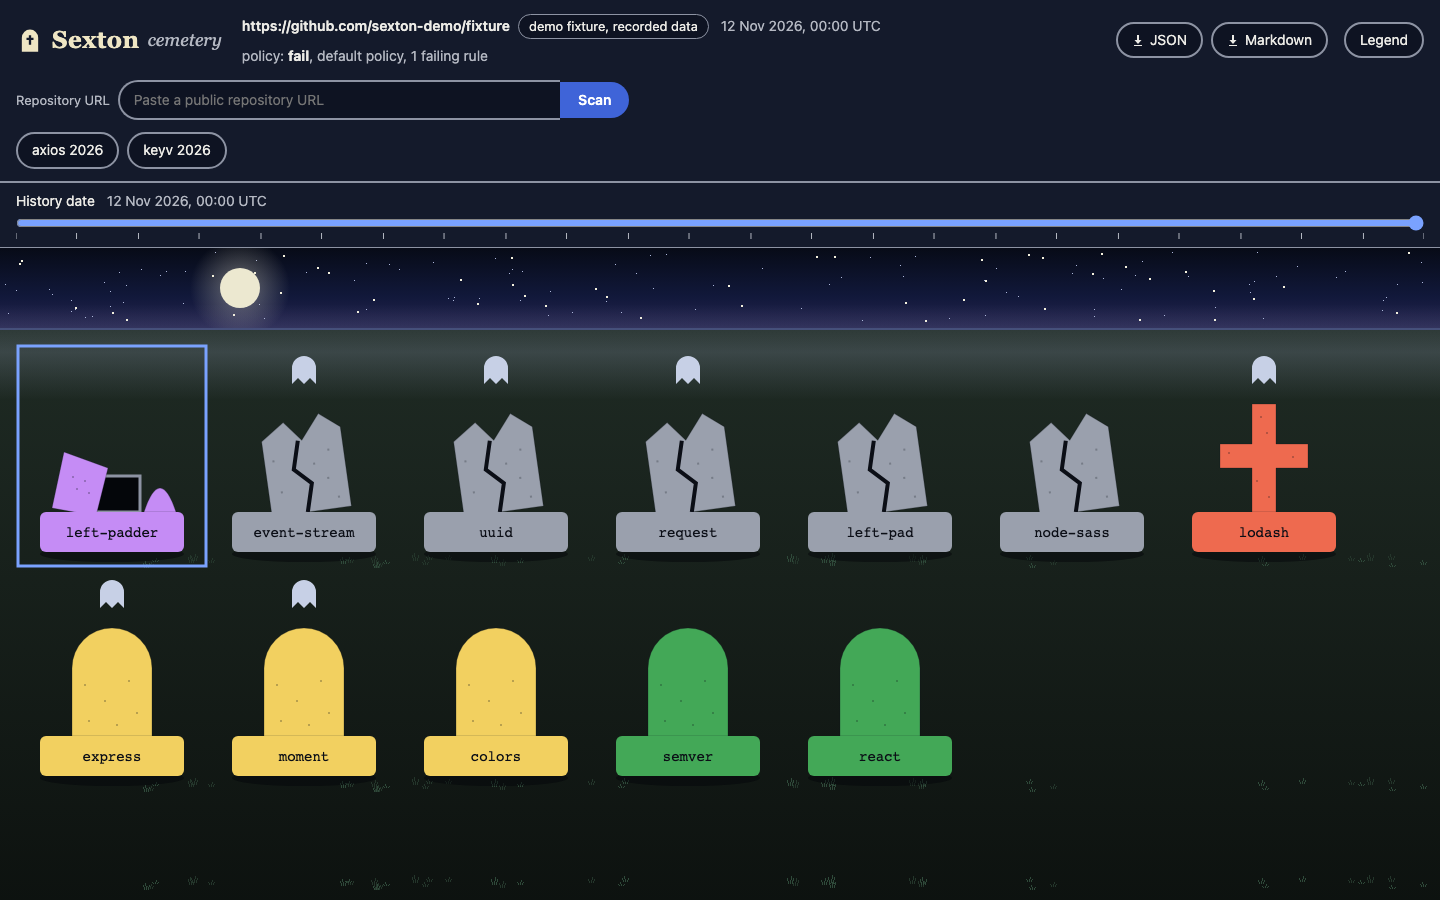
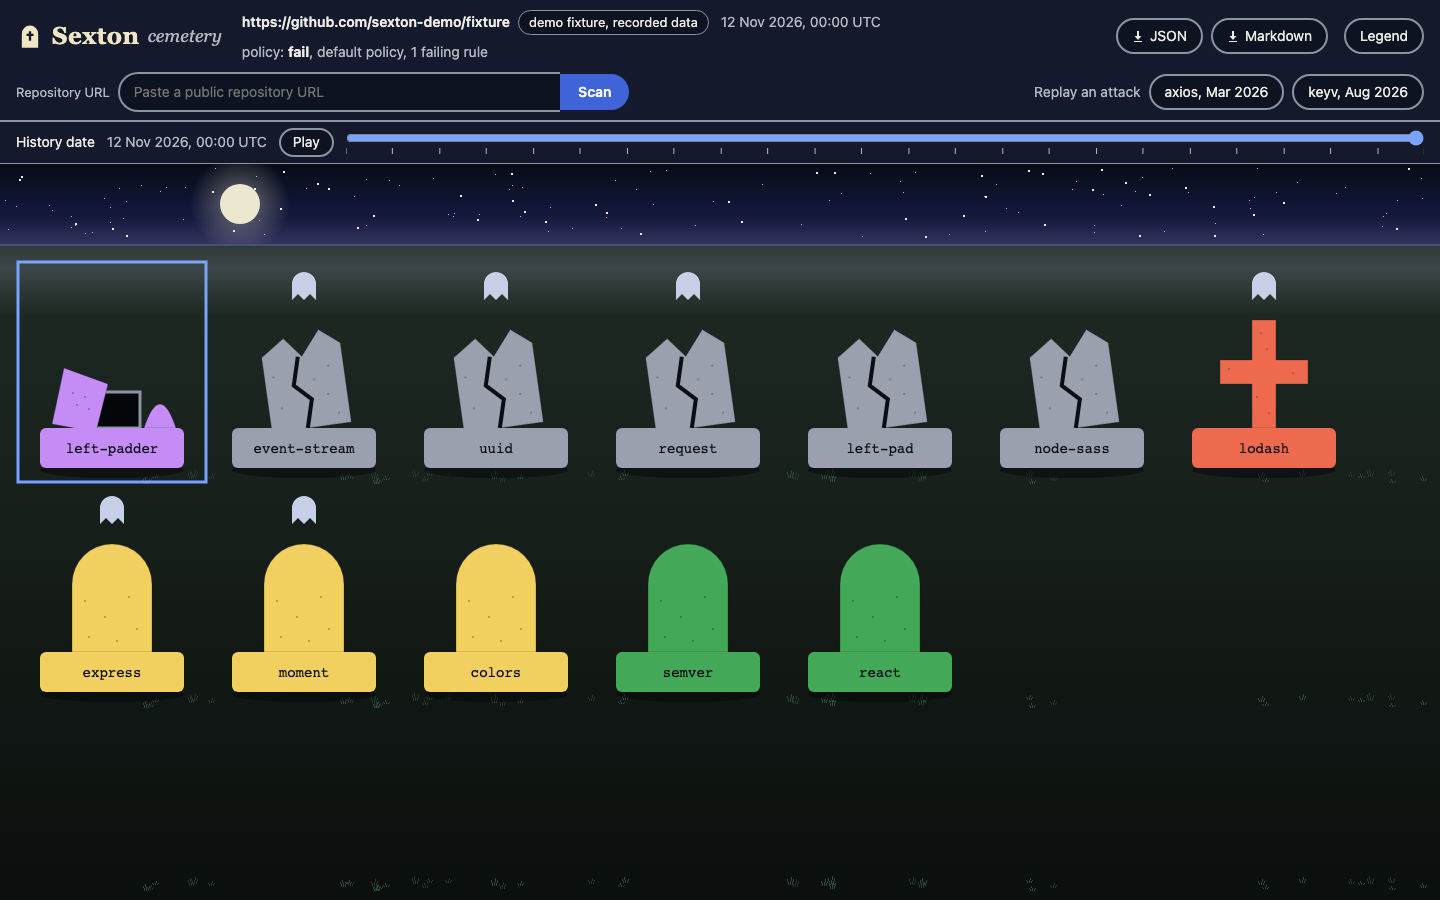
feat(web): README screenshots, header row break, ground reaches the bottom

diff --git a/packages/web/e2e/smoke.spec.ts b/packages/web/e2e/smoke.spec.ts
@@ -5,6 +5,7 @@ import { chromium, expect, test, type Page } from "@playwright/test";
 test.skip(!existsSync(chromium.executablePath()), "chromium is not installed");
 
 const SCREENSHOT = fileURLToPath(new URL("../../../docs/cemetery.png", import.meta.url));
+const REPLAY_SCREENSHOT = fileURLToPath(new URL("../../../docs/replay-axios.png", import.meta.url));
 const BUDGET_MS = 16;
 
 interface TimingWindow {
@@ -127,4 +128,29 @@ test("demo loads under the CSP, then 300 graves redraw within budget", async ({ 
   console.log(`median redraw of 300 graves after a scrubber move over 30 paints: ${movedMedian.toFixed(2)} ms`);
   expect(movedMedian).toBeLessThanOrEqual(BUDGET_MS);
   expect(cspViolations).toEqual([]);
+});
+
+// Spec cemetery-time-fixes, task 6.1 (requirement 9.2): the README picture of a replay.
+test("the axios replay at its Possessed stop, for the README", async ({ page, baseURL }) => {
+  const origin = new URL(baseURL ?? "http://localhost:4173").origin;
+  await page.route("**/*", async (route) => {
+    if (new URL(route.request().url()).origin === origin) await route.continue();
+    else await route.abort();
+  });
+  await page.setViewportSize({ width: 1440, height: 900 });
+  await page.emulateMedia({ reducedMotion: "reduce" });
+  await page.goto("/?replay=axios");
+  const grave = page.locator("button[data-grave-index]").first();
+  await expect(grave).toHaveAttribute("aria-label", "axios 1.14.0, Alive");
+  const scrubber = page.getByRole("slider", { name: "History date" });
+  await scrubber.focus();
+  await scrubber.press("ArrowRight");
+  await expect(grave).toHaveAttribute("aria-label", "axios 1.14.1, Possessed");
+  await expect(page.locator('[role="note"]')).toBeVisible();
+  await expect(page.getByRole("dialog")).toHaveCount(0);
+  // Move focus off the slider so no focus ring is in the picture, then wait two frames for the repaint.
+  await scrubber.blur();
+  await waitForFirstPaint(page);
+  await page.evaluate(() => new Promise<void>((resolve) => requestAnimationFrame(() => requestAnimationFrame(() => resolve()))));
+  await page.screenshot({ path: REPLAY_SCREENSHOT });
 });

diff --git a/packages/web/e2e/time.spec.ts b/packages/web/e2e/time.spec.ts
@@ -203,6 +203,15 @@ test("at 1440 by 900 on the demo the canvas top is at most 190, with the form an
   expect(sameRow(form, group)).toBe(true);
   const parts = await Promise.all(["label[for=history-date]", ".scrub-date", "button.scrub-play", "#history-date"].map(box));
   for (const p of parts) expect(Math.abs(middle(p) - middle(parts[0] ?? p))).toBeLessThan(12);
+  // A replay has no evidence links. The form and the Replay group still share row 2, starting at the left.
+  await page.goto("/?replay=axios");
+  await expect(page.locator("button[data-grave-index]")).toHaveCount(1);
+  const replayForm = await box(".repo-form");
+  const replayGroup = await box(".replay-group");
+  const replayTop = await box(".header-top");
+  expect(sameRow(replayForm, replayGroup)).toBe(true);
+  expect(replayForm.x).toBeLessThan(40);
+  expect(replayForm.y).toBeGreaterThanOrEqual(replayTop.y + replayTop.height);
 });
 
 for (const search of ["", "?replay=axios"]) {

diff --git a/packages/web/src/styles.css b/packages/web/src/styles.css
@@ -895,12 +895,23 @@ pre.signal-value {
    and the scrubber's label, date, Play and slider share one row. Below 960 px the rules above apply. */
 @media (min-width: 960px) {
   .site-header {
-    gap: 8px 16px;
+    gap: 0 16px;
     padding: 8px 16px;
   }
-  /* At least half the row, so the form and the Replay group always start row 2 at the left. */
-  .header-top {
-    flex: 1 1 50%;
+  /* A zero-height line break: the form, the Replay group, the banner and the message always start row 2 at the
+     left, with or without the evidence links on row 1. The row gap is 0, so each row 2 item carries its own 8px. */
+  .site-header::after {
+    content: "";
+    order: 1;
+    flex-basis: 100%;
+    height: 0;
+  }
+  .repo-form,
+  .replay-group,
+  .replay-banner,
+  .header-message {
+    order: 2;
+    margin-top: 8px;
   }
   .repo-form {
     flex: 1 1 28rem;

diff --git a/packages/web/test/free-height.test.ts b/packages/web/test/free-height.test.ts
@@ -1,0 +1,18 @@
+// Spec cemetery-time-fixes, design.md "Decisions made during implementation" 6: the free height rounds up.
+import { describe, expect, it } from "vitest";
+import { freeHeight } from "../src/hooks/use-free-height.js";
+
+describe("freeHeight", () => {
+  it("rounds a fractional top up, so the ground reaches the bottom of the viewport", () => {
+    expect(freeHeight(900, 163.6)).toBe(737);
+    expect(163.6 + freeHeight(900, 163.6)).toBeGreaterThanOrEqual(900);
+    expect(freeHeight(900, 164)).toBe(736);
+  });
+
+  it("gives 0 for a top below the viewport or an unreadable value", () => {
+    expect(freeHeight(900, 950)).toBe(0);
+    expect(freeHeight(0, 10)).toBe(0);
+    expect(freeHeight(Number.NaN, 10)).toBe(0);
+    expect(freeHeight(900, Number.POSITIVE_INFINITY)).toBe(0);
+  });
+});

diff --git a/packages/web/src/hooks/use-free-height.ts b/packages/web/src/hooks/use-free-height.ts
@@ -3,7 +3,8 @@ import { useEffect, useState, type RefObject } from "react";
 /** Pure. The viewport height under the element top, or 0 when it cannot be read. */
 export function freeHeight(innerHeight: number, top: number): number {
   if (!Number.isFinite(innerHeight) || innerHeight <= 0 || !Number.isFinite(top)) return 0;
-  return Math.max(0, Math.floor(innerHeight - top));
+  // Rounded up: a fractional top must not leave a sub-pixel strip under the ground.
+  return Math.max(0, Math.ceil(innerHeight - top));
 }
 
 /**

diff --git a/.kiro/specs/cemetery-time-fixes/tasks.md b/.kiro/specs/cemetery-time-fixes/tasks.md
@@ -176,21 +176,25 @@ Run-time notes for the agents:
     - _Requirements: 11.5_
     - Review notes: READY, no defect. Acted on: the 0 row gap of `.scrub` is recorded as decision 5. Notes kept: below 960 px the group label wraps with the buttons, covered by the 360 px tests.
 
-- [ ] 6. Screenshots (F6)
+- [x] 6. Screenshots (F6)
   - Retakes the cemetery screenshot and adds the axios replay screenshot.
   - _Requirements: 9.1, 9.2, 9.3_
-  - [ ] 6.1 Extend `packages/web/e2e/smoke.spec.ts`
+  - [x] 6.1 Extend `packages/web/e2e/smoke.spec.ts`
     - Add the test "the axios replay at its Possessed stop, for the README" of design.md "F6": 1440 by 900, Reduced motion, foreign origins blocked, `/?replay=axios`, ArrowRight on the slider, wait for "axios 1.14.1, Possessed" and two animation frames, banner visible, drawer closed, write `docs/replay-axios.png`. Deliberate test change 19: the cemetery screenshot step stays as it is.
     - _Requirements: 9.1, 9.2_
-  - [ ] 6.2 Orchestrator writes both screenshots
+    - Notes: new test "the axios replay at its Possessed stop, for the README" in smoke.spec.ts. Deliberate test change 19: the cemetery screenshot step is unchanged.
+  - [x] 6.2 Orchestrator writes both screenshots
     - Run `npm run test:e2e -w @sexton/web`. Confirm both tests ran (not skipped) and that `docs/cemetery.png` and `docs/replay-axios.png` are 1440 by 900 with new modification times. Record in "Notes".
     - _Requirements: 9.1, 9.2_
-  - [ ] 6.3 Orchestrator reads both images itself
+    - Notes: `npm run test:e2e -w @sexton/web`: 22 passed, none skipped. Both files written at 02:22 and again on the final run, 1440 by 900, PNG chunks IHDR, IDAT and IEND only. A first run surfaced two things fixed in the source: the replay put the form on row 1 (design.md decision 4, header row break) and the canvas-bottom e2e failed 1 run in 3 on the fractional canvas top (decision 6, `Math.ceil` in use-free-height.ts). The layout e2e gained a replay row check.
+  - [x] 6.3 Orchestrator reads both images itself
     - Open both files as images. Cemetery: drawer closed, the canvas starts at or above y 190, the "Replay an attack" label and the two buttons sit on the form row, Play and the slider sit on one row. Replay: the banner with four links, the axios open grave of Possessed with 1.14.1, the as-of line. Record what was seen under "Notes". If any item fails, fix the cause in the owning task and retake. Do not wait for the user.
     - _Requirements: 9.3_
-  - [ ] 6.4 Security review of task 6
+    - Notes: read both images. docs/cemetery.png: drawer closed, canvas top about 164 (at or above 190), "Replay an attack" and both buttons on the form row, label, date, Play and slider on one row, 12 graves. docs/replay-axios.png: banner with the title, the not-a-live-scan line, the summary and four links (Trend Micro, CSA, npm docs, npm registry), the open Possessed grave "axios 1.14.1", the as-of line "as of 31 Mar 2026, 00:21 UTC" with Back to now, slider at Stop 1, drawer closed. First pass of the replay image showed the form on row 1 and the Replay group on row 2, fixed and retaken.
+  - [x] 6.4 Security review of task 6
     - Invoke the security-reviewer agent on `docs/cemetery.png` and `docs/replay-axios.png` (metadata only) and `packages/web/e2e/smoke.spec.ts`. Record the findings in "Review notes". Fix every defect in this task.
     - _Requirements: 11.5_
+    - Review notes: READY, no defect. Acted on: a unit test now pins `freeHeight` rounding up (test/free-height.test.ts). Notes kept: the paint wait relies on two frames after the Possessed label; the 1 px vertical overflow is recorded in decision 6; with a row gap of 0, a wrapped row 1 would get no gap, which cannot happen at 960 px and wider (row 1 needs about 708 px); the blue box in the pictures is the selected-grave ring.
 
 - [ ] 7. Steering web.md
   - Brings the cemetery rules in line with the built behaviour.

diff --git a/.kiro/specs/cemetery-time-fixes/design.md b/.kiro/specs/cemetery-time-fixes/design.md
@@ -397,8 +397,9 @@ Each item is the question, the call, and the reason.
 1. **usePlay holds its state with a load key (task 3).** `use-play.ts` keeps `{ key, play, announce }` in `useState`, where the key is the load id, the Stop count and the replay flag. When the key changes it replaces the state during render with the `load` result of `playStep`, in place of a `load` dispatch from an effect. Reason: the loader gives the same load id to the loading state and the ready state, so the Stop count also has to start a new load, and a reset during render means no frame shows the previous response's Stop. The reducer, the events and the timer are as designed.
 2. **usePlay takes the Stops, not the count (task 3).** It needs the Stop instants for the announcement texts of call 24. The count is their length.
 3. **An event that changes nothing keeps the live line (task 3).** A pause while stopped or a play with one Stop returns the same state, so the last announcement stays.
-4. **`.header-top` takes at least half of row 1 at 960 px and wider (task 5).** With only the rules of the F5 table, the form fitted on row 1 beside the evidence links and the Legend, so the summary wrapped to four lines (header 160 px, canvas top 201 px) and the field sat under the drawer, which failed the cemetery-polish e2e "a press on the Repository URL box closes the drawer". `flex: 1 1 50%` on `.header-top` inside the same media block keeps row 1 for the wordmark, summary, evidence and Legend, and starts row 2 at the left with the form and the Replay group.
+4. **A zero-height row break in the header at 960 px and wider (tasks 5 and 6).** With only the rules of the F5 table, the form fitted on row 1 beside the evidence links and the Legend: the summary wrapped to four lines (header 160 px, canvas top 201 px) and the field sat under the drawer, which failed the cemetery-polish e2e "a press on the Repository URL box closes the drawer". A first fix gave `.header-top` a 50% basis. The replay screenshot of task 6 then showed that a replay, which has no evidence links, still put the form on row 1 and the Replay group on row 2. The final rule is a `.site-header::after` line break (`order: 1`, `flex-basis: 100%`, height 0) with `order: 2` on the form, the Replay group, the banner and the message, a row gap of 0 and an 8 px top margin on those four. The DOM order and so the Tab order do not change. The visual order equals the DOM order.
 5. **`.scrub` row gap 0 at 960 px and wider (task 5).** The block uses `gap: 0 12px` in place of `gap: 12px`, so the caption notes that wrap to their own line add no extra 12 px above them.
+6. **`freeHeight` rounds up (task 6).** The compact header has a fractional height (122.3 px), so the canvas top is 163.6 px. `Math.floor(900 - 163.6)` gave a canvas that ended at 899.6 px, and the existing e2e "at 1440 by 900 the canvas reaches the bottom of the viewport" failed whenever the free height was measured after the final layout (1 of 3 runs). `hooks/use-free-height.ts` now uses `Math.ceil`, so the ground always reaches the bottom. The cost is at most one pixel of vertical overflow (the page `scrollHeight` is 901 at 1440 by 900). The source was fixed, not the test.
 
 ## Notes and open items
 
